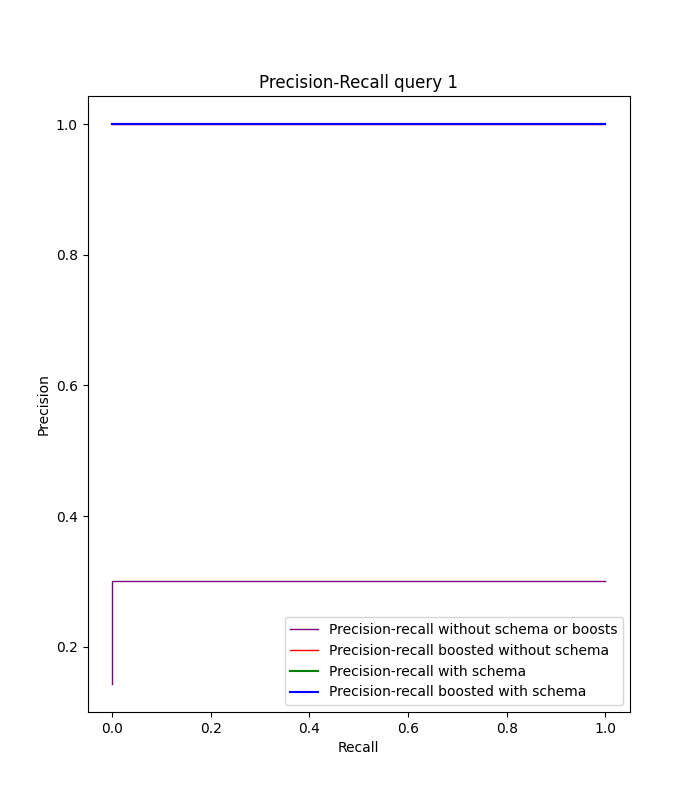
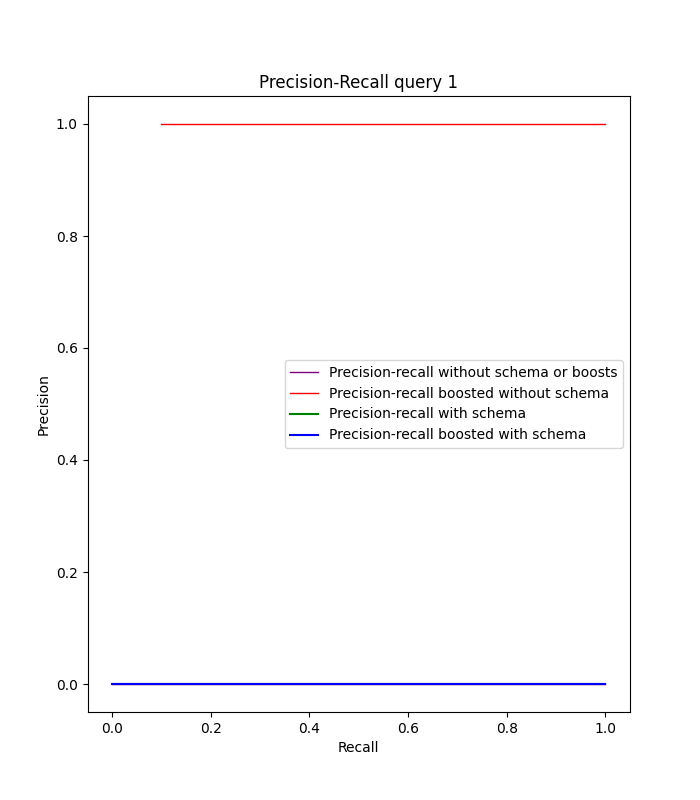
Trying to push some data

diff --git a/evaluation/search_similar_books/evaluation.py b/evaluation/search_similar_books/evaluation.py
@@ -7,11 +7,11 @@ import pandas as pd
 import requests
 from sklearn.metrics import PrecisionRecallDisplay
 
-QRELS_FILE = 'q7_rels.txt' #9----> q7
-QUERY_URL_NO_SCHEMA = 'http://localhost:8983/solr/book_no_schema/query?q=(LGBT%20AND%20Fiction%20ANd%20Contemporary)%20OR%20(unique%20AND%20deep%20AND%20compelling)%20OR%20(anxiety%20AND%20abuse%20AND%20bullying)%20AND%20-id:4007&q.op=OR&defType=edismax&indent=true&qf=genre%20buzzwords%20sensitivity&qt=mlt&wt=json' 
-QUERY_URL_BOOST_NO_SCHEMA = 'http://localhost:8983/solr/book_no_schema/query?q=(LGBT%20AND%20Fiction%20ANd%20Contemporary)%20OR%20(unique%20AND%20deep%20AND%20compelling)%20OR%20(anxiety%20AND%20abuse%20AND%20bullying)%20AND%20-id:4007&q.op=OR&defType=edismax&indent=true&qf=genre%5E10%20buzzwords%20sensitivity&qt=mlt&wt=json' 
+QRELS_FILE = 'q6_rels_10.txt' #9----> q7
+QUERY_URL_NO_SCHEMA = 'http://localhost:8983/solr/book_no_schema/query?q=(Young%20Adult%20AND%20Fantasy%20AND%20Romance%20AND%20Fae)%20OR%20(unique%20AND%20incredible%20AND%20twist)%20OR%20(rape%20AND%20murder%20AND%20survival%20AND%20torture)&q.op=OR&defType=edismax&indent=true&qf=genre%20buzzwords%20sensitivity&qt=mlt&wt=json' 
+QUERY_URL_BOOST_NO_SCHEMA = 'http://localhost:8983/solr/book_no_schema/query?q=(Young%20Adult%20AND%20Fantasy%20AND%20Romance%20AND%20Fae)%20OR%20(unique%20AND%20incredible%20AND%20twist)%20OR%20(rape%20AND%20murder%20AND%20survival%20AND%20torture)&q.op=OR&defType=edismax&indent=true&qf=genre^10%20buzzwords%20sensitivity&qt=mlt&wt=json' 
 QUERY_URL_SCHEMA = 'http://localhost:8983/solr/books_schema/query?q=(LGBT%20AND%20Fiction%20ANd%20Contemporary)%20OR%20(unique%20AND%20deep%20AND%20compelling)%20OR%20(anxiety%20AND%20abuse%20AND%20bullying)%20AND%20-id:4007&q.op=OR&defType=edismax&indent=true&qf=genre%20buzzwords%20sensitivity&qt=mlt&wt=json' 
-QUERY_URL_BOOST_SCHEMA = 'http://localhost:8983/solr/books_schema/query?q=(LGBT%20AND%20Fiction%20ANd%20Contemporary)%20OR%20(unique%20AND%20deep%20AND%20compelling)%20OR%20(anxiety%20AND%20abuse%20AND%20bullying)%20AND%20-id:4007&q.op=OR&defType=edismax&indent=true&qf=genre%5E10%20buzzwords%20sensitivity&qt=mlt&wt=json' 
+QUERY_URL_BOOST_SCHEMA = 'http://localhost:8983/solr/books_schema/query?q=(Young%20Adult%20AND%20Fantasy%20AND%20Romance%20AND%20Fae)%20OR%20(unique%20AND%20incredible%20AND%20twist)%20OR%20(rape%20AND%20murder%20AND%20survival%20AND%20torture)&q.op=OR&defType=edismax&indent=true&qf=genre%20buzzwords%20sensitivity&qt=mlt&wt=json'
 
 # Read qrels to extract relevant documents
 relevant = list(map(lambda el: el.strip(), open(QRELS_FILE).readlines()))
@@ -22,11 +22,11 @@ boostedResults = requests.get(QUERY_URL_BOOST_NO_SCHEMA).json()['response']['doc
 normalResultsSchema = requests.get(QUERY_URL_SCHEMA).json()['response']['docs']
 boostedResultsSchema = requests.get(QUERY_URL_BOOST_SCHEMA).json()['response']['docs']
 
-results = [normalResults,boostedResults, normalResultsSchema, boostedResultsSchema]
+results = [normalResults,boostedResultsSchema, normalResultsSchema, boostedResults]
 
 _, ax = plt.subplots(figsize=(7, 8))
 
-colors = cycle(["purple", "red", "green",  "blue"])
+colors = cycle(["#8C47D7", "#E70E02", "#11E454",  "#FEEA00"])
 
 i = 0
 for results, color in zip(results, colors):
@@ -92,13 +92,13 @@ for results, color in zip(results, colors):
     )
 
     if i == 0:
-        filename = 'results_normal_no_schema_q7.tex'
+        filename = 'results_normal_no_schema_q6.tex'
     elif i == 1:
-        filename = 'results_boosted_no_schema_q7.tex'
+        filename = 'results_boosted_no_schema_q6.tex'
     elif i==2:
-        filename = 'results_normal_schema_q7.tex'
+        filename = 'results_normal_schema_q6.tex'
     else:
-        filename = 'results_boosted_schema_q7.tex'
+        filename = 'results_boosted_schema_q6.tex'
 
     with open(filename, 'w') as tf:
         tf.write(df.to_latex())
@@ -148,10 +148,10 @@ for results, color in zip(results, colors):
                   color=color, linewidth=1)
     elif(i == 2):
         disp.plot(ax=ax, name=f"Precision-recall with schema",
-                  color=color, linewidth=1.5)
+                  color=color, linewidth=2,dashes=(5,10), linestyle='--')
     else:
         disp.plot(ax=ax, name=f"Precision-recall boosted with schema",
-                  color=color, linewidth=1.5)
+                  color=color, linewidth=1)
     i += 1
 
 # add the legend for the iso-f1 curves
@@ -159,6 +159,6 @@ handles, labels = disp.ax_.get_legend_handles_labels()
 
 # set the legend and the axes
 ax.legend(handles=handles, labels=labels, loc="best")
-ax.set_title("Precision-Recall query 7")
+ax.set_title("Precision-Recall query 6")
 
-plt.savefig('precision_recall_query_7.png')
+plt.savefig('precision_recall_query_6.png')

diff --git a/evaluation/search_buzzwords/evaluation.py b/evaluation/search_buzzwords/evaluation.py
@@ -7,11 +7,11 @@ import pandas as pd
 import requests
 from sklearn.metrics import PrecisionRecallDisplay
 
-QRELS_FILE = 'q2_rels.txt' # 3 - 2 in file
-QUERY_URL_NO_SCHEMA = 'http://localhost:8983/solr/book_no_schema/query?q=fast%20OR%20(surpris*%20AND%20twist)&q.op=OR&defType=edismax&indent=true&qf=pacing%20buzzwords&wt=json' 
-QUERY_URL_BOOST_NO_SCHEMA = 'http://localhost:8983/solr/book_no_schema/query?q=fast%20OR%20(surpris*%20AND%20twist)&q.op=OR&defType=edismax&indent=true&qf=pacing%20buzzwords%5E5&wt=json'
-QUERY_URL_SCHEMA = 'http://localhost:8983/solr/books_schema/query?q=fast%20OR%20(surpris*%20AND%20twist)&q.op=OR&defType=edismax&indent=true&qf=pacing%20buzzwords&wt=json' 
-QUERY_URL_BOOST_SCHEMA = 'http://localhost:8983/solr/books_schema/query?q=fast%20OR%20(surpris*%20AND%20twist)&q.op=OR&defType=edismax&indent=true&qf=pacing%20buzzwords%5E5&wt=json'
+QRELS_FILE = 'q3_rels.txt' # 3 - 2 in file
+QUERY_URL_NO_SCHEMA = 'http://localhost:8983/solr/book_no_schema/query?q=fast%20OR%20(capti*%20AND%20obs*)&q.op=OR&defType=edismax&indent=true&qf=pacing%20buzzwords&wt=json' 
+QUERY_URL_BOOST_NO_SCHEMA = 'http://localhost:8983/solr/book_no_schema/query?q=fast%20OR%20(capti*%20AND%20obs*)&q.op=OR&defType=edismax&indent=true&qf=pacing%20buzzwords%5E5&wt=json'
+QUERY_URL_SCHEMA = 'http://localhost:8983/solr/books_schema/query?q=fast%20OR%20(capti*%20AND%20obs*)&q.op=OR&defType=edismax&indent=true&qf=pacing%20buzzwords&wt=json' 
+QUERY_URL_BOOST_SCHEMA = 'http://localhost:8983/solr/books_schema/query?q=fast%20OR%20(capti*%20AND%20obs*)&q.op=OR&defType=edismax&indent=true&qf=pacing%20buzzwords%5E5&wt=json'
 # Read qrels to extract relevant documents
 relevant = list(map(lambda el: el.strip(), open(QRELS_FILE).readlines()))
 
@@ -21,11 +21,11 @@ boostedResults = requests.get(QUERY_URL_BOOST_NO_SCHEMA).json()['response']['doc
 normalResultsSchema = requests.get(QUERY_URL_SCHEMA).json()['response']['docs']
 boostedResultsSchema = requests.get(QUERY_URL_BOOST_SCHEMA).json()['response']['docs']
 
-results = [normalResults, boostedResults, normalResultsSchema, boostedResultsSchema]
+results = [normalResults, boostedResultsSchema, normalResultsSchema, boostedResults]
 
 _, ax = plt.subplots(figsize=(7, 8))
 
-colors = cycle(["purple", "red", "green",  "blue"])
+colors = cycle(["#8C47D7", "#E70E02", "#11E454",  "#FEEA00"])
 
 i = 0
 for results, color in zip(results, colors):
@@ -91,13 +91,13 @@ for results, color in zip(results, colors):
     )
 
     if i == 0:
-        filename = 'results_normal_no_schema_q2.tex'
+        filename = 'results_normal_no_schema_q3.tex'
     elif i == 1:
-        filename = 'results_boosted_no_schema_q2.tex'
+        filename = 'results_boosted_no_schema_q3.tex'
     elif i==2:
-        filename = 'results_normal_schema_q2.tex'
+        filename = 'results_normal_schema_q3.tex'
     else:
-        filename = 'results_boosted_schema_q2.tex'
+        filename = 'results_boosted_schema_q3.tex'
 
     with open(filename, 'w') as tf:
         tf.write(df.to_latex())
@@ -144,20 +144,20 @@ for results, color in zip(results, colors):
                   color=color, linewidth=1)
     elif(i == 1):
         disp.plot(ax=ax, name=f"Precision-recall boosted without schema",
-                  color=color, linewidth=1)
+                  color=color, linewidth=2,dashes=(5,10), linestyle='--')
     elif(i == 2):
         disp.plot(ax=ax, name=f"Precision-recall with schema",
-                  color=color, linewidth=1.5)
+                  color=color, linewidth=2,dashes=(5,5), linestyle='--')
     else:
         disp.plot(ax=ax, name=f"Precision-recall boosted with schema",
-                  color=color, linewidth=1.5)
+                  color=color, linewidth=1)
     i += 1
 
 # add the legend for the iso-f1 curves
 handles, labels = disp.ax_.get_legend_handles_labels()
 
 # set the legend and the axes
-ax.legend(handles=handles, labels=labels, loc="best")
-ax.set_title("Precision-Recall query 2")
+ax.legend(handles=handles, labels=labels, loc='center')
+ax.set_title("Precision-Recall query 3")
 
-plt.savefig('precision_recall_query_2.png')
+plt.savefig('precision_recall_query_3.png')

diff --git a/evaluation/traditional/evaluation.py b/evaluation/traditional/evaluation.py
@@ -7,11 +7,11 @@ import pandas as pd
 import requests
 from sklearn.metrics import PrecisionRecallDisplay
 
-QRELS_FILE = 'q4_rels.txt' # 7 --> 5
+QRELS_FILE = 'nightwing_qrels.txt' # 7 --> 5
 QUERY_URL_NO_SCHEMA = 'http://localhost:8983/solr/book_no_schema/query?q=nightwing%20OR%20batman&q.op=OR&defType=edismax&indent=true&qf=title%20description&wt=json' #nightwing
-QUERY_URL_BOOST_NO_SCHEMA = 'http://localhost:8983/solr/book_no_schema/query?q=nightwing%20OR%20batman&q.op=OR&defType=edismax&indent=true&qf=title%20description&bq=title:batman*&wt=json'
+QUERY_URL_BOOST_NO_SCHEMA = 'http://localhost:8983/solr/book_no_schema/query?q=nightwing%20OR%20batman&q.op=OR&defType=edismax&indent=true&qf=title%20description&bq=title:batman&wt=json'
 QUERY_URL_SCHEMA = 'http://localhost:8983/solr/books_schema/query?q=nightwing%20OR%20batman&q.op=OR&defType=edismax&indent=true&qf=title%20description&wt=json' #nightwing
-QUERY_URL_BOOST_SCHEMA = 'http://localhost:8983/solr/books_schema/query?q=nightwing%20OR%20batman&q.op=OR&defType=edismax&indent=true&qf=title%20description&bq=title:batman*&wt=json'
+QUERY_URL_BOOST_SCHEMA = 'http://localhost:8983/solr/books_schema/query?q=nightwing%20OR%20batman&q.op=OR&defType=edismax&indent=true&qf=title%20description&bq=title:batman&wt=json'
 # Read qrels to extract relevant documents
 relevant = list(map(lambda el: el.strip(), open(QRELS_FILE).readlines()))
 
@@ -25,7 +25,7 @@ results = [normalResults,boostedResultsSchema, normalResultsSchema, boostedResul
 
 _, ax = plt.subplots(figsize=(7, 8))
 
-colors = cycle(["purple", "red", "green",  "blue"])
+colors = cycle(["#8C47D7", "#E70E02", "#11E454",  "#FEEA00"])
 
 i = 0
 for results, color in zip(results, colors):
@@ -37,7 +37,6 @@ for results, color in zip(results, colors):
 
     @metric
     def ap(results, relevant):
-        """Average Precision"""
 
         relevant_index = []
         index = 0
@@ -66,7 +65,6 @@ for results, color in zip(results, colors):
 
     @metric
     def p10(results, relevant, n=10):
-        """Precision at N"""
         return len([
             doc
             for doc in results[:n]
@@ -91,13 +89,13 @@ for results, color in zip(results, colors):
     )
 
     if i == 0:
-        filename = 'results_normal_no_schema_q4.tex'
+        filename = 'results_normal_no_schema_q5.tex'
     elif i == 1:
-        filename = 'results_boosted_no_schema_q4.tex'
+        filename = 'results_boosted_no_schema_q5.tex'
     elif i==2:
-        filename = 'results_normal_schema_q4.tex'
+        filename = 'results_normal_schema_q5.tex'
     else:
-        filename = 'results_boosted_schema_q4.tex'
+        filename = 'results_boosted_schema_q5.tex'
 
     with open(filename, 'w') as tf:
         tf.write(df.to_latex())
@@ -147,10 +145,10 @@ for results, color in zip(results, colors):
                   color=color, linewidth=1)
     elif(i == 2):
         disp.plot(ax=ax, name=f"Precision-recall with schema",
-                  color=color, linewidth=1.5)
+                  color=color, linewidth=1)
     else:
         disp.plot(ax=ax, name=f"Precision-recall boosted with schema",
-                  color=color, linewidth=1.5)
+                  color=color, linewidth=1)
     i += 1
 
 # add the legend for the iso-f1 curves

diff --git a/evaluation/search_book_profile/evaluation.py b/evaluation/search_book_profile/evaluation.py
@@ -7,7 +7,7 @@ import pandas as pd
 import requests
 from sklearn.metrics import PrecisionRecallDisplay
 
-QRELS_FILE = 'q1_rels.txt' # 1
+QRELS_FILE = 'q1_rels_10.txt' # 1
 QUERY_URL_NO_SCHEMA = 'http://localhost:8983/solr/book_no_schema/query?q=(mystery%5E10%20OR%20thriller)%20AND%20(surpri*)%20AND%20(-rape%20AND%20-gore%20AND%20-sexual*)&q.op=OR&defType=edismax&indent=true&qf=genre%20mood%20sensitivity%20buzzwords&wt=json' 
 QUERY_URL_BOOST_NO_SCHEMA = 'http://localhost:8983/solr/book_no_schema/query?q=(mystery%5E10%20OR%20thriller)%20AND%20(surpri*)%20AND%20(-rape%20AND%20-gore%20AND%20-sexual*)&q.op=OR&defType=edismax&indent=true&qf=genre%5E10%20mood%20sensitivity%5E20%20buzzwords&wt=json' 
 QUERY_URL_SCHEMA = 'http://localhost:8983/solr/books_schema/query?q=(mystery%5E10%20OR%20thriller)%20AND%20(surpri*)%20AND%20(-rape%20AND%20-gore%20AND%20-sexual*)&q.op=OR&defType=edismax&indent=true&qf=genre%20mood%20sensitivity%20buzzwords&wt=json' 
@@ -22,11 +22,11 @@ boostedResults = requests.get(QUERY_URL_BOOST_NO_SCHEMA).json()['response']['doc
 normalResultsSchema = requests.get(QUERY_URL_SCHEMA).json()['response']['docs']
 boostedResultsSchema = requests.get(QUERY_URL_BOOST_SCHEMA).json()['response']['docs']
 
-results = [normalResults, boostedResults, normalResultsSchema, boostedResultsSchema]
+results = [normalResultsSchema, boostedResultsSchema, normalResults, boostedResults]
 
 _, ax = plt.subplots(figsize=(7, 8))
 
-colors = cycle(["purple", "red", "green",  "blue"])
+colors = cycle(["#8C47D7", "#E70E02", "#11E454",  "#FEEA00"])
 
 i = 0
 for results, color in zip(results, colors):
@@ -145,13 +145,13 @@ for results, color in zip(results, colors):
                   color=color, linewidth=1)
     elif(i == 1):
         disp.plot(ax=ax, name=f"Precision-recall boosted without schema",
-                  color=color, linewidth=1)
+                  color=color, linewidth=2,dashes=(5,10), linestyle='--')
     elif(i == 2):
         disp.plot(ax=ax, name=f"Precision-recall with schema",
-                  color=color, linewidth=1.5)
+                  color=color, linewidth=2,dashes=(5,10), linestyle='--')
     else:
         disp.plot(ax=ax, name=f"Precision-recall boosted with schema",
-                  color=color, linewidth=1.5)
+                  color=color, linewidth=1)
     i += 1
 
 # add the legend for the iso-f1 curves
@@ -161,4 +161,4 @@ handles, labels = disp.ax_.get_legend_handles_labels()
 ax.legend(handles=handles, labels=labels, loc="best")
 ax.set_title("Precision-Recall query 1")
 
-plt.savefig('precision_recall.png')
+plt.savefig('precision_recall_1.png')

diff --git a/cleaning_json.py b/cleaning_json.py
@@ -15,6 +15,7 @@ def clean_json(jsonFilePath):
 
 
 clean_json('solr/everything_part_1.json')
+'''
 clean_json('solr/everything_part_2.json')
 clean_json('solr/everything_part_3.json')
 clean_json('solr/everything_part_4.json')
@@ -32,7 +33,7 @@ clean_json('solr/everything_part_15.json')
 clean_json('solr/everything_part_16.json')
 clean_json('solr/everything_part_17.json')
 clean_json('solr/everything_part_18.json')
-
+'''
 '''
 clean_json('solr/reviews_part_2.json')
 clean_json('solr/reviews_part_3.json')

diff --git a/evaluation/search_book_profile/results_normal_no_schema_q1.tex b/evaluation/search_book_profile/results_normal_no_schema_q1.tex
@@ -1,9 +1,9 @@
 \begin{tabular}{lll}
 \toprule
-{} &                       0 &         1 \\
+{} &                       0 &      1 \\
 \midrule
-0 &                  Metric &     Value \\
-1 &       Average Precision &  0.516667 \\
-2 &  Precision at 10 (P@10) &       0.3 \\
+0 &                  Metric &  Value \\
+1 &       Average Precision &      0 \\
+2 &  Precision at 10 (P@10) &    0.0 \\
 \bottomrule
 \end{tabular}

diff --git a/evaluation/search_buzzwords/results_boosted_no_schema_q2.tex b/evaluation/search_buzzwords/results_boosted_no_schema_q2.tex
@@ -1,9 +1,9 @@
 \begin{tabular}{lll}
 \toprule
-{} &                       0 &      1 \\
+{} &                       0 &         1 \\
 \midrule
-0 &                  Metric &  Value \\
-1 &       Average Precision &    1.0 \\
-2 &  Precision at 10 (P@10) &    1.0 \\
+0 &                  Metric &     Value \\
+1 &       Average Precision &  0.746164 \\
+2 &  Precision at 10 (P@10) &       0.6 \\
 \bottomrule
 \end{tabular}

diff --git a/evaluation/search_similar_books/results_boosted_schema_q6.tex b/evaluation/search_similar_books/results_boosted_schema_q6.tex
@@ -1,9 +1,9 @@
 \begin{tabular}{lll}
 \toprule
-{} &                       0 &      1 \\
+{} &                       0 &         1 \\
 \midrule
-0 &                  Metric &  Value \\
-1 &       Average Precision &    1.0 \\
-2 &  Precision at 10 (P@10) &    1.0 \\
+0 &                  Metric &     Value \\
+1 &       Average Precision &  0.988889 \\
+2 &  Precision at 10 (P@10) &       0.9 \\
 \bottomrule
 \end{tabular}

diff --git a/evaluation/traditional/results_normal_schema_q4.tex b/evaluation/traditional/results_normal_schema_q4.tex
@@ -1,9 +1,9 @@
 \begin{tabular}{lll}
 \toprule
-{} &                       0 &      1 \\
+{} &                       0 &         1 \\
 \midrule
-0 &                  Metric &  Value \\
-1 &       Average Precision &    1.0 \\
-2 &  Precision at 10 (P@10) &    0.1 \\
+0 &                  Metric &     Value \\
+1 &       Average Precision &  0.777778 \\
+2 &  Precision at 10 (P@10) &       0.3 \\
 \bottomrule
 \end{tabular}

diff --git a/evaluation/traditional/results_normal_schema_q5.tex b/evaluation/traditional/results_normal_schema_q5.tex
@@ -1,9 +1,9 @@
 \begin{tabular}{lll}
 \toprule
-{} &                       0 &      1 \\
+{} &                       0 &         1 \\
 \midrule
-0 &                  Metric &  Value \\
-1 &       Average Precision &      0 \\
-2 &  Precision at 10 (P@10) &    0.0 \\
+0 &                  Metric &     Value \\
+1 &       Average Precision &  0.777778 \\
+2 &  Precision at 10 (P@10) &       0.3 \\
 \bottomrule
 \end{tabular}

diff --git a/evaluation/traditional/results_boosted_no_schema_q4.tex b/evaluation/traditional/results_boosted_no_schema_q4.tex
@@ -1,9 +1,9 @@
 \begin{tabular}{lll}
 \toprule
-{} &                       0 &      1 \\
+{} &                       0 &       1 \\
 \midrule
-0 &                  Metric &  Value \\
-1 &       Average Precision &    0.6 \\
-2 &  Precision at 10 (P@10) &    0.2 \\
+0 &                  Metric &   Value \\
+1 &       Average Precision &  0.7875 \\
+2 &  Precision at 10 (P@10) &     0.4 \\
 \bottomrule
 \end{tabular}

diff --git a/evaluation/traditional/results_boosted_no_schema_q5.tex b/evaluation/traditional/results_boosted_no_schema_q5.tex
@@ -1,9 +1,9 @@
 \begin{tabular}{lll}
 \toprule
-{} &                       0 &      1 \\
+{} &                       0 &       1 \\
 \midrule
-0 &                  Metric &  Value \\
-1 &       Average Precision &      0 \\
-2 &  Precision at 10 (P@10) &    0.0 \\
+0 &                  Metric &   Value \\
+1 &       Average Precision &  0.7875 \\
+2 &  Precision at 10 (P@10) &     0.4 \\
 \bottomrule
 \end{tabular}
